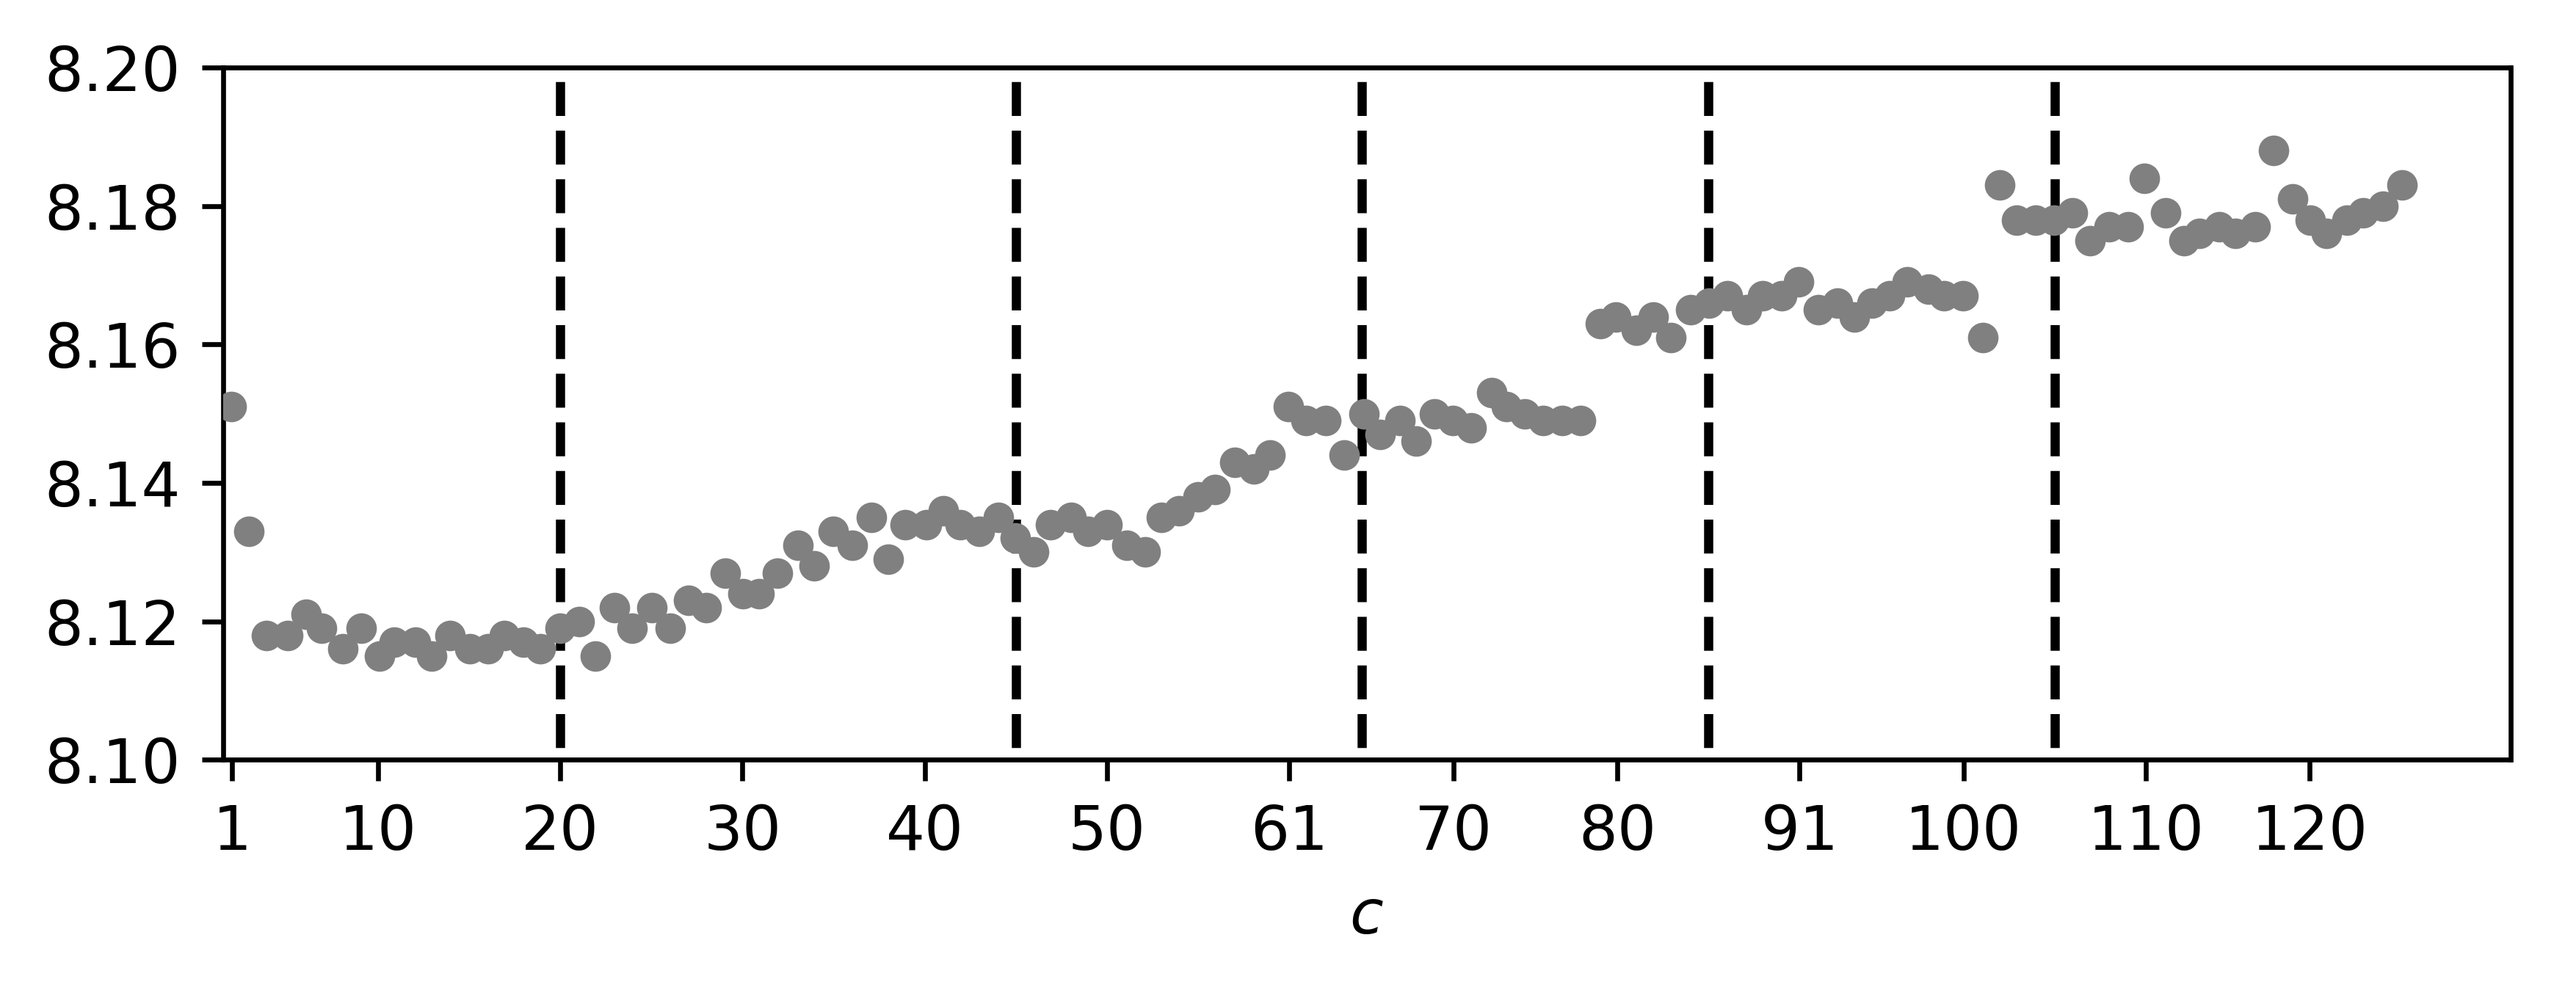
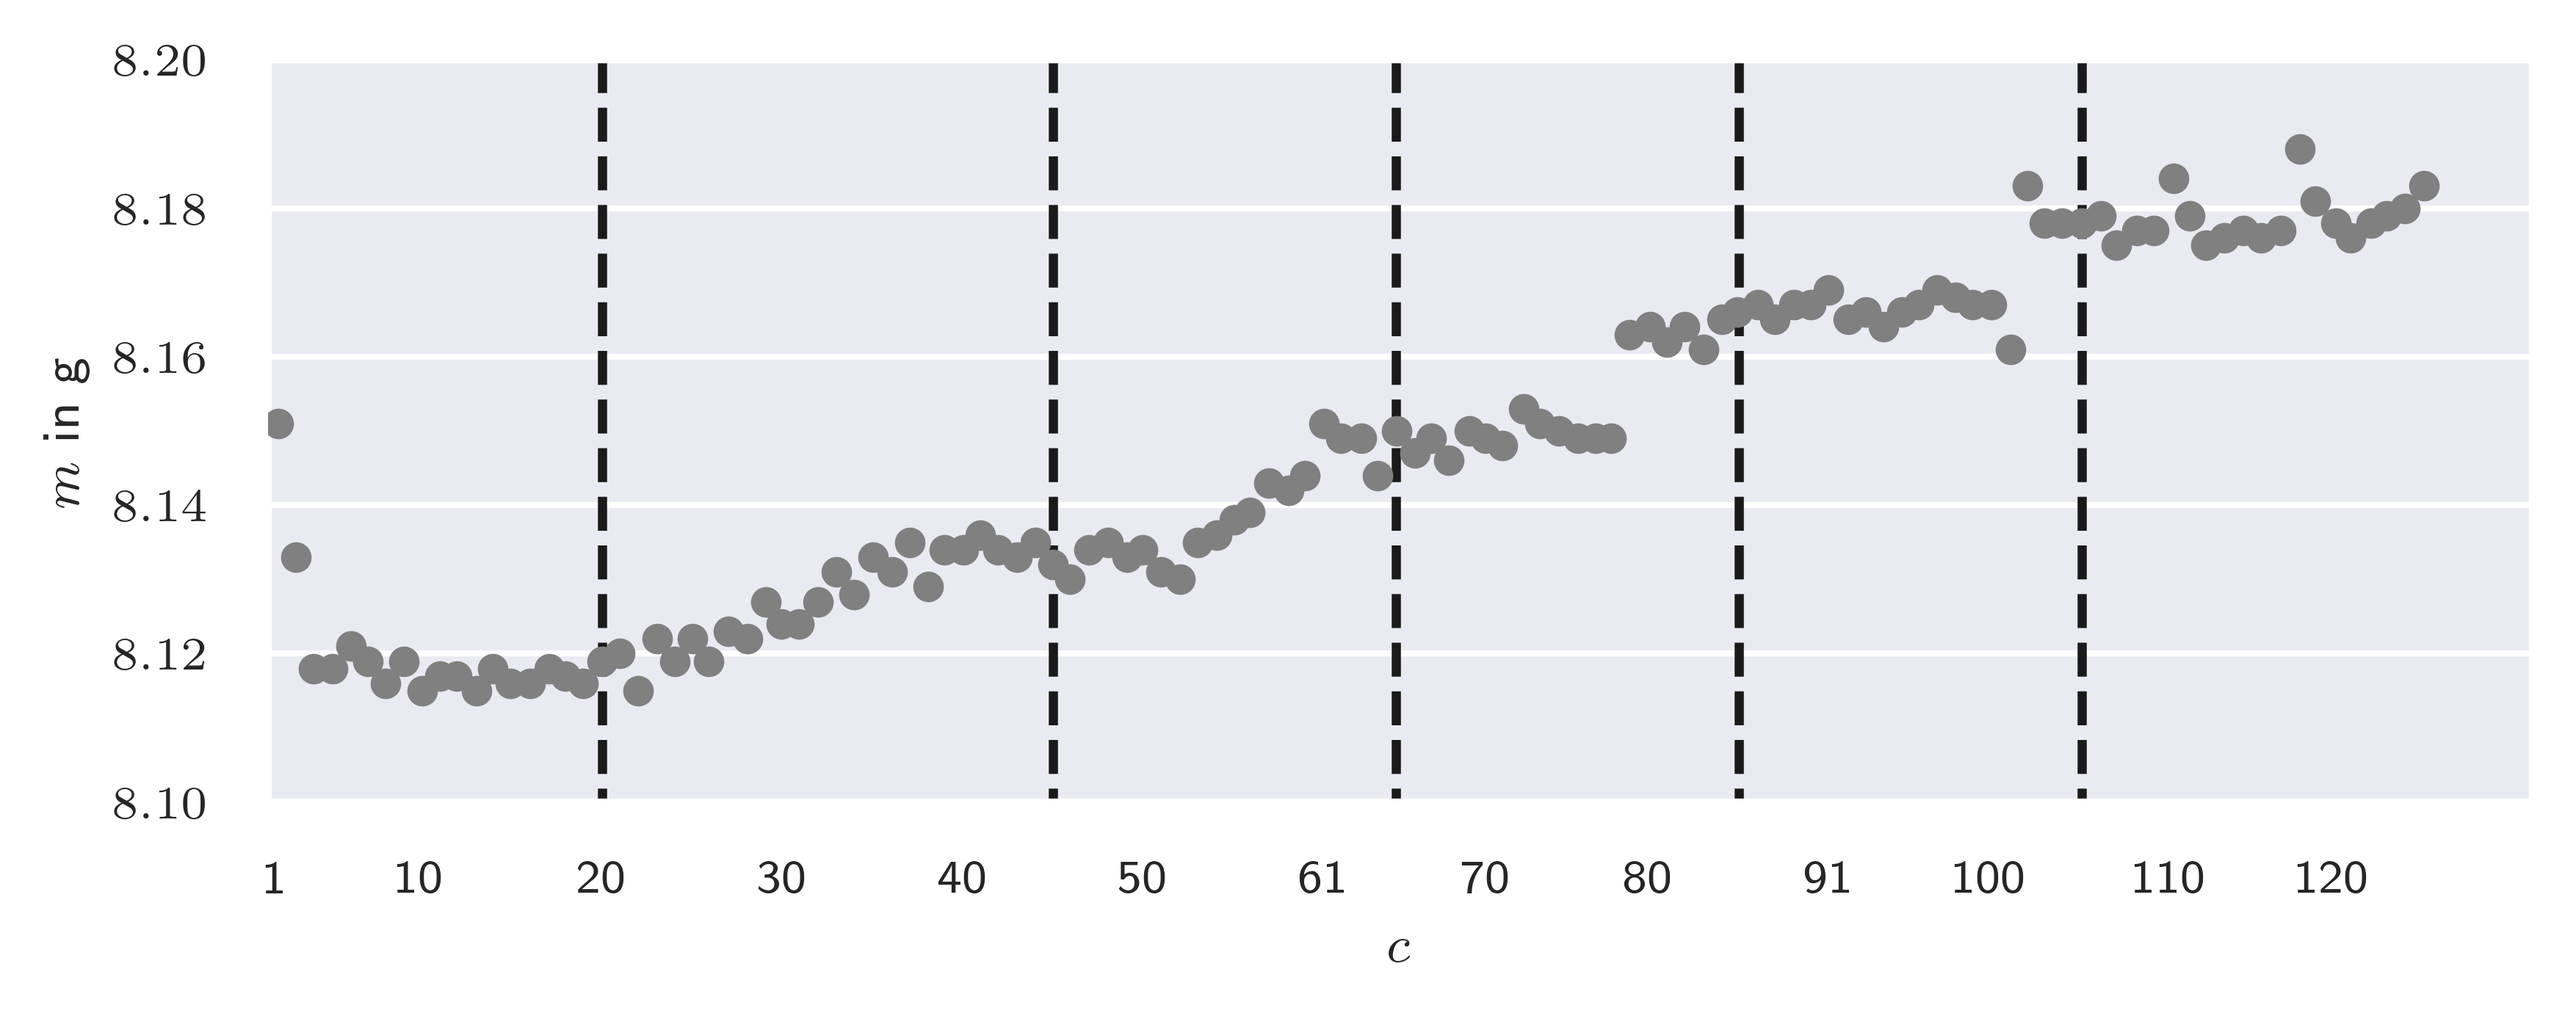
updated

diff --git a/Experiments/SamplingRate/SamplingRate_Deckel.py b/Experiments/SamplingRate/SamplingRate_Deckel.py
@@ -40,7 +40,8 @@ def zero_phase_filter(data, cutoff, fs, order=5):
 
 plt.close('all')
 
-path_sys = 'C:/Users/LocalAdmin/Documents/GitHub/DigitalTwinInjectionMolding/'
+# path_sys = 'C:/Users/LocalAdmin/Documents/GitHub/DigitalTwinInjectionMolding/'
+path_sys = '/home/alexander/GitHub/DigitalTwinInjectionMolding/'
 path = path_sys + 'data/HighFrequencyMeasurements/Deckel/' # @work
 
 file = 'cycle416.pkl'
@@ -102,7 +103,7 @@ ax[1].set_xlim(0,25)
 ax[0].set_title('Amplitude Sepctrum (dB)')
 ax[1].set_title('Power Spectrum')
 
-ax[1].set_xlabel('Hz')
+ax[1].set_xlabel('frequency in' +'$\mathrm{Hz}$')
 
 fig.set_size_inches((15/2.54,10/2.54))
 

diff --git a/Experiments/Elsevier/QualityModel/ModelComparisonDisturbances/ModelComparison_Switch.py b/Experiments/Elsevier/QualityModel/ModelComparisonDisturbances/ModelComparison_Switch.py
@@ -100,8 +100,9 @@ for a in ax:
            ymin=0, ymax=10, colors='k', linestyles='dashed')
     a.set_xlim([-0.5,160])
     a.set_ylim([-0.001,0.031])
-    a.set_ylabel(None)
+    a.set_ylabel('$\Delta m$' + ' in g')
     a.set_xticks([1,20,40,60,80,100,120,140,160])
+    
     
 ax[0].set_xticklabels([])
 ax[1].set_xticklabels([])

diff --git a/Experiments/Elsevier/QualityModel/ModelComparisonDisturbances/ModelComparison_Recyc.py b/Experiments/Elsevier/QualityModel/ModelComparisonDisturbances/ModelComparison_Recyc.py
@@ -96,7 +96,7 @@ for a in ax:
            ymin=0, ymax=10, colors='k', linestyles='dashed')
     a.set_xlim([-0.5,125])
     a.set_ylim([-0.001,0.051])
-    a.set_ylabel(None)
+    a.set_ylabel('$\Delta m$' + ' in g')
     a.set_xticks([1,20,40,60,80,100,120])
     
 ax[0].set_xticklabels([])
